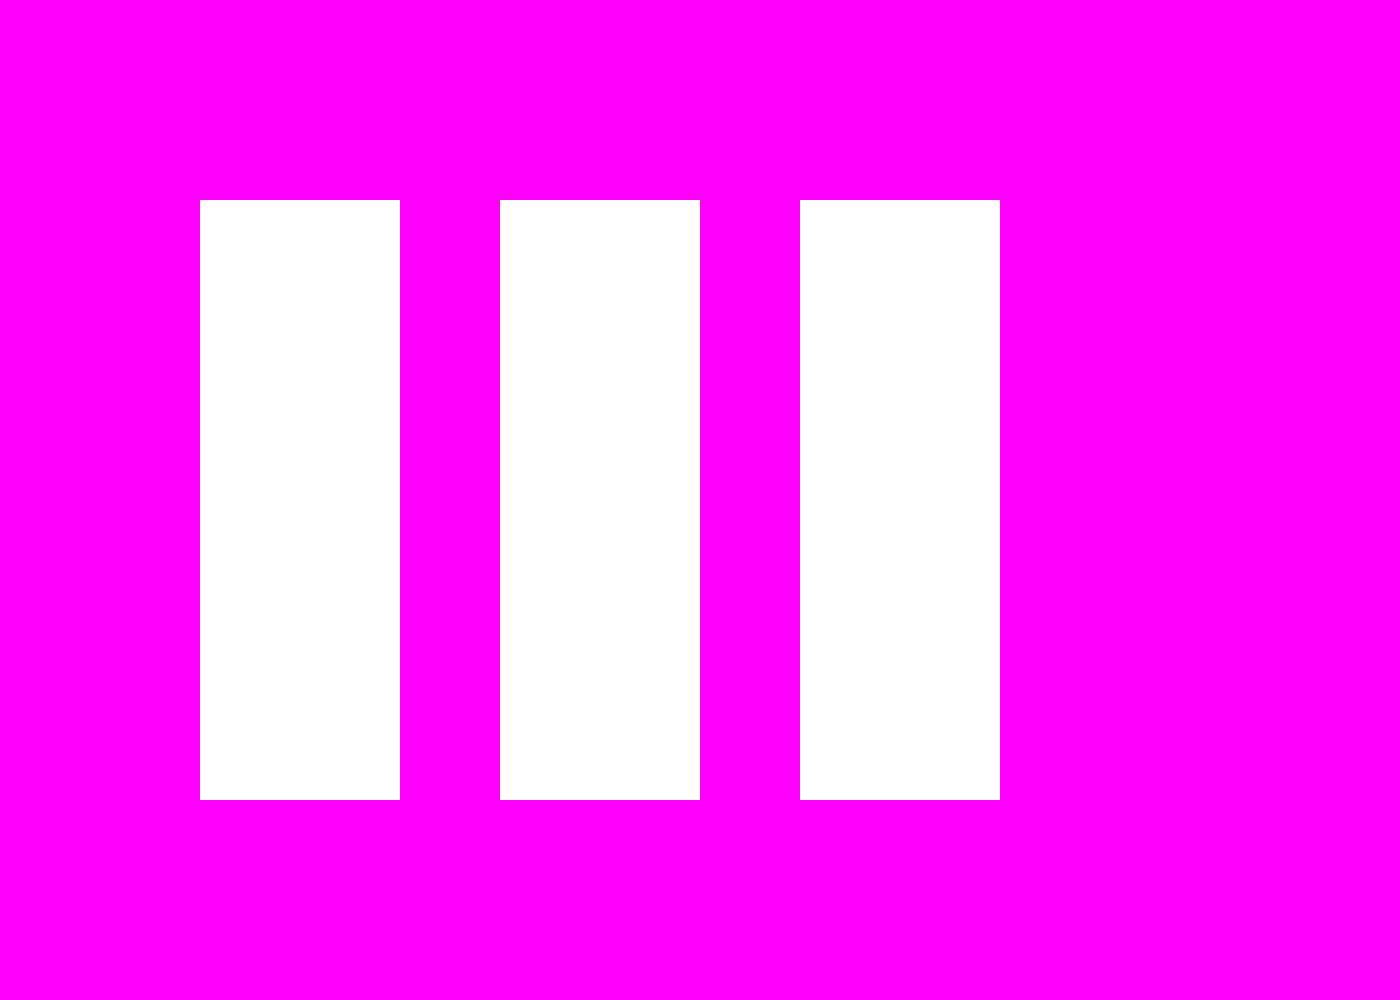
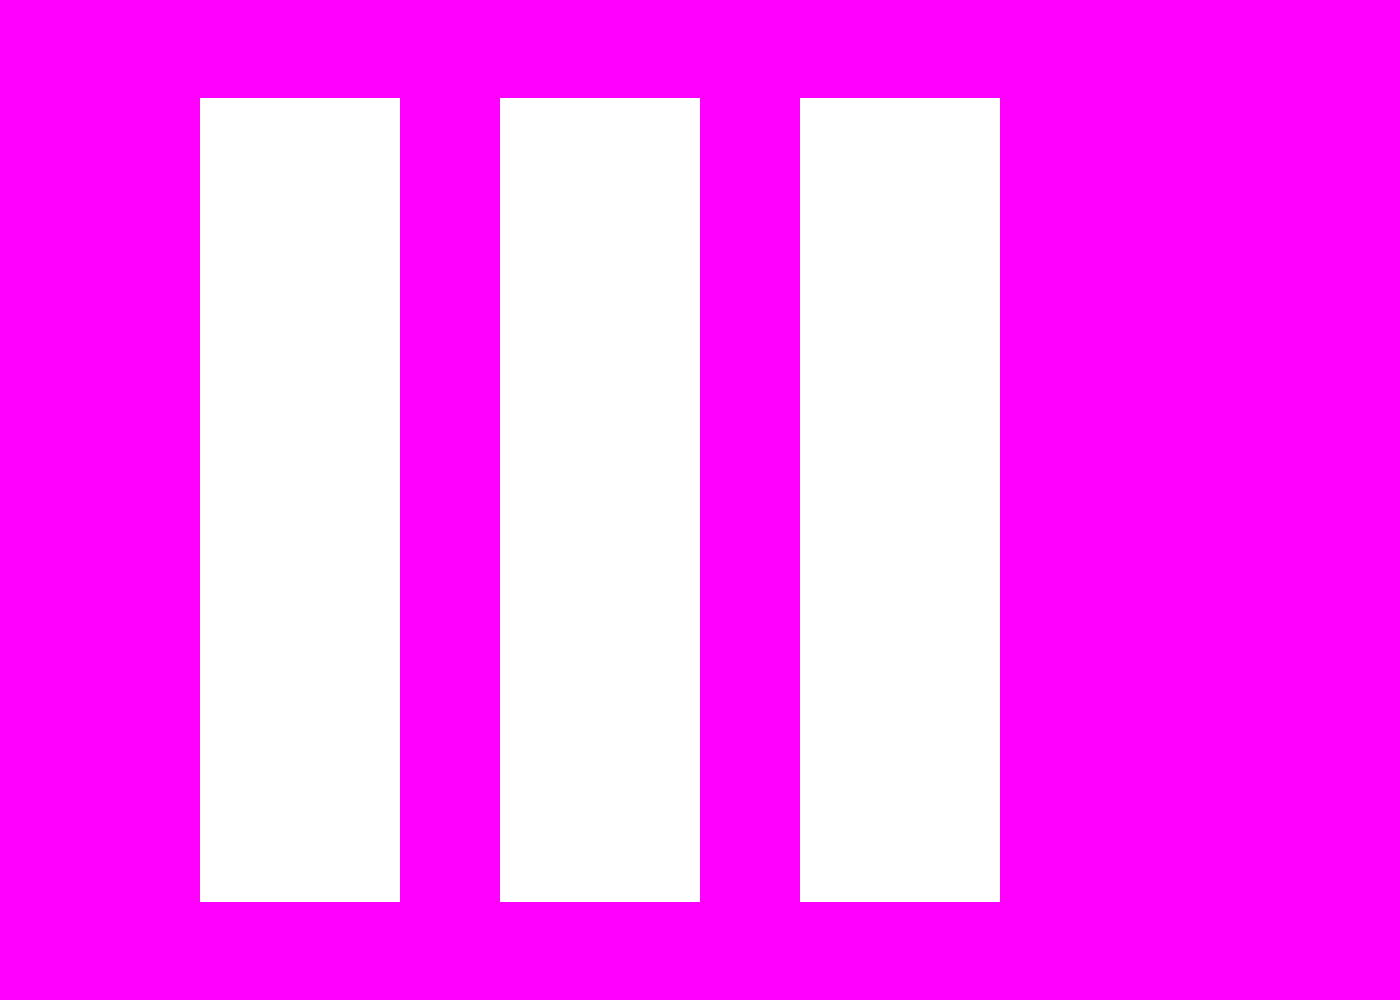
Glücksspiel neu eingeführt und Simons dialog geht wieder

diff --git a/src/SPIEL.java b/src/SPIEL.java
@@ -16,6 +16,7 @@ public class SPIEL extends Game implements TastenLosgelassenReagierbar, Ticker, 
     private NpcController NpcController;
     private StartingScreen StartSc;
     private Minigame1 Minigame1;
+    private Minigame2 Minigame2;
     private Pet pet1;
     //private HouseLoader HouseLoader1;
 
@@ -30,7 +31,7 @@ public class SPIEL extends Game implements TastenLosgelassenReagierbar, Ticker, 
 
 
 
-    public SPIEL(int breite, int hoehe) {
+    public SPIEL() {
         super(MAIN.x,MAIN.y,"P-SEM GAME");//windowsize kann nicht mit variable gemacht werden.
         //Zaehler fuer Tick, Tack, ...
         zaehler = 0;
@@ -49,6 +50,7 @@ public class SPIEL extends Game implements TastenLosgelassenReagierbar, Ticker, 
         debugAnzeige1 = new DebugAnzeige(0,0);
         debugAnzeige2 = new DebugAnzeige(200,0);
         gamesaver = new GameSaver(); //GameSaver, der im Moment nur Spieler-Sachen speichert
+        Minigame2 = new Minigame2(ActivePlayer);
         ObjectController Autos = new ObjectController();
 
 
@@ -78,7 +80,8 @@ public class SPIEL extends Game implements TastenLosgelassenReagierbar, Ticker, 
         statischeWurzel.add(StartSc);
         StartSc.setActive(true);
         statischeWurzel.add(DialogController);
-        //statischeWurzel.add(Minigame1);
+
+        statischeWurzel.add(Minigame2);
 
 
         statischeWurzel.add(debugAnzeige1);
@@ -157,7 +160,7 @@ public class SPIEL extends Game implements TastenLosgelassenReagierbar, Ticker, 
 
         pet1.follow(ActivePlayer);
 
-
+        Minigame2.tick();
     }
 
 
@@ -181,9 +184,8 @@ public class SPIEL extends Game implements TastenLosgelassenReagierbar, Ticker, 
             DialogController.dialogBeginnen();
         }
 
-        if(tastenkuerzel == 34){//M für minigame
-            //HouseLoader1.HideView();
-            //Minigame1.startGame((int)ActivePlayer.getPosX(),(int)ActivePlayer.getPosY());
+        if(tastenkuerzel == 12){//M für minigame
+            Minigame2.startGame();
         }
 
 

diff --git a/src/Minigame2.java b/src/Minigame2.java
@@ -2,6 +2,8 @@ import ea.Knoten;
 import ea.Bild;
 import ea.Punkt;
 
+import java.util.Random;
+
 public class Minigame2 extends Knoten {
 
     private Player AP;
@@ -18,14 +20,14 @@ public class Minigame2 extends Knoten {
     private int originalSpeed = 10;
     private int speed;
 
-    private int bottomEdge = 800;
+    private int bottomEdge = 900;
     private int row0_firstPos = 0;
     private int row1_firstPos = 0;
     private int row2_firstPos = 0;
 
-    private Punkt row0_TL_POS = new Punkt(200,200);
-    private Punkt row1_TL_POS = new Punkt(500,200);//100 Abstand zur Vorherigen
-    private Punkt row2_TL_POS = new Punkt(800,200);
+    private Punkt row0_TL_POS = new Punkt(200,100);
+    private Punkt row1_TL_POS = new Punkt(500,100);//100 Abstand zur Vorherigen
+    private Punkt row2_TL_POS = new Punkt(800,100);
 
     private String mainPath = "./Assets/Minigames/SlotMachine/";
 
@@ -96,6 +98,21 @@ public class Minigame2 extends Knoten {
         }
     }
 
+    /*
+    private void shuffleArray(Bild[] array){
+        int index,
+                temp;
+        Random random = new Random();
+        for (int i = array.length - 1; i > 0; i--)
+        {
+            index = random.nextInt(i + 1);
+            temp = array[index];
+            array[index] = array[i];
+            array[i] = temp;
+        }
+    }
+
+     */
 
     public void startGame(){
         //offsetX = (int)AP.getPosX();
